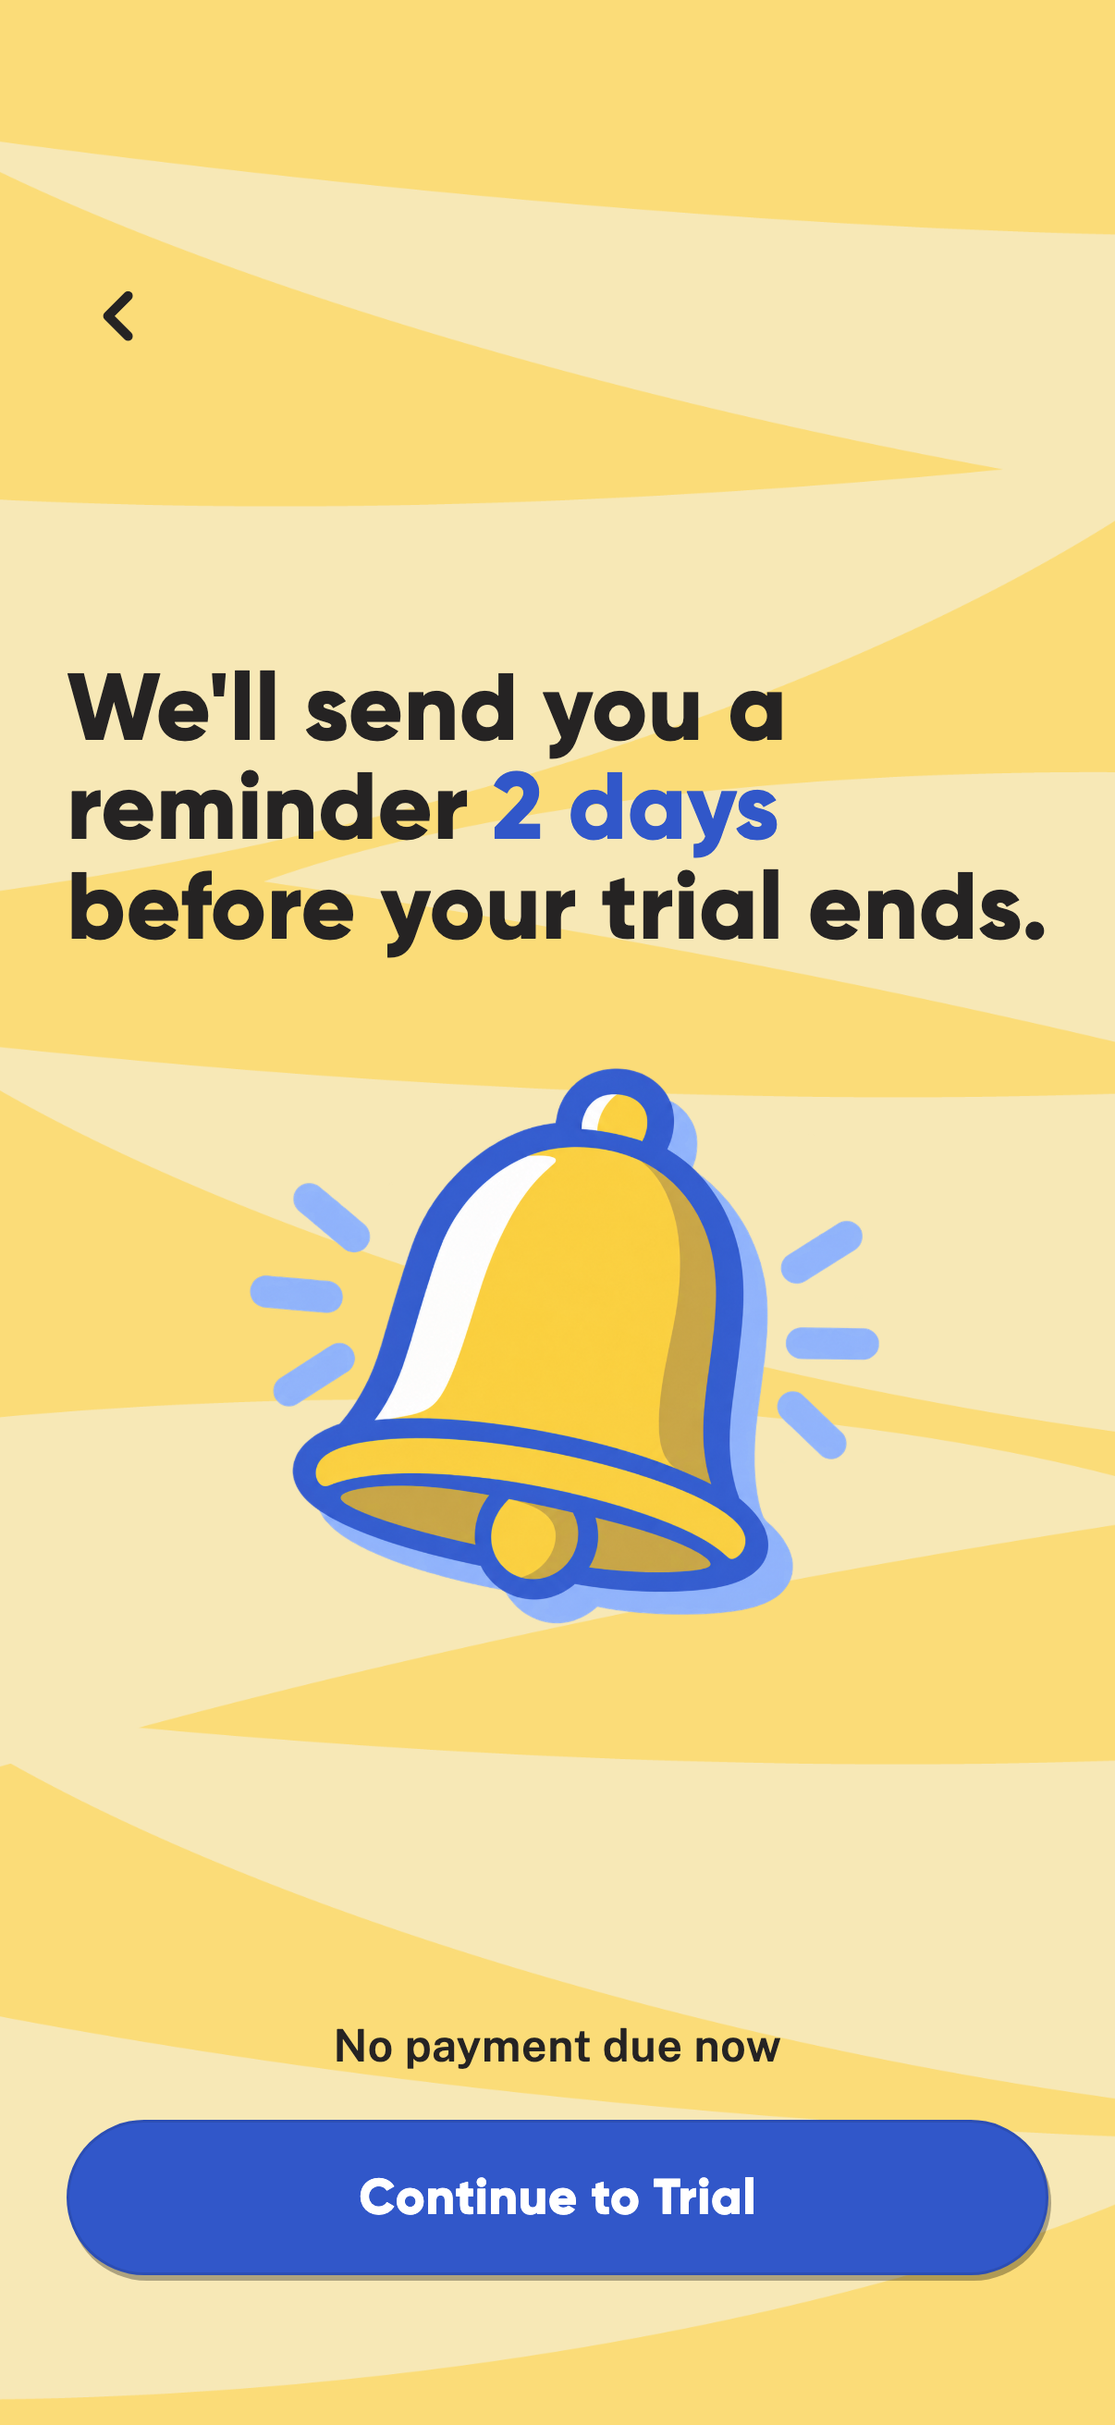
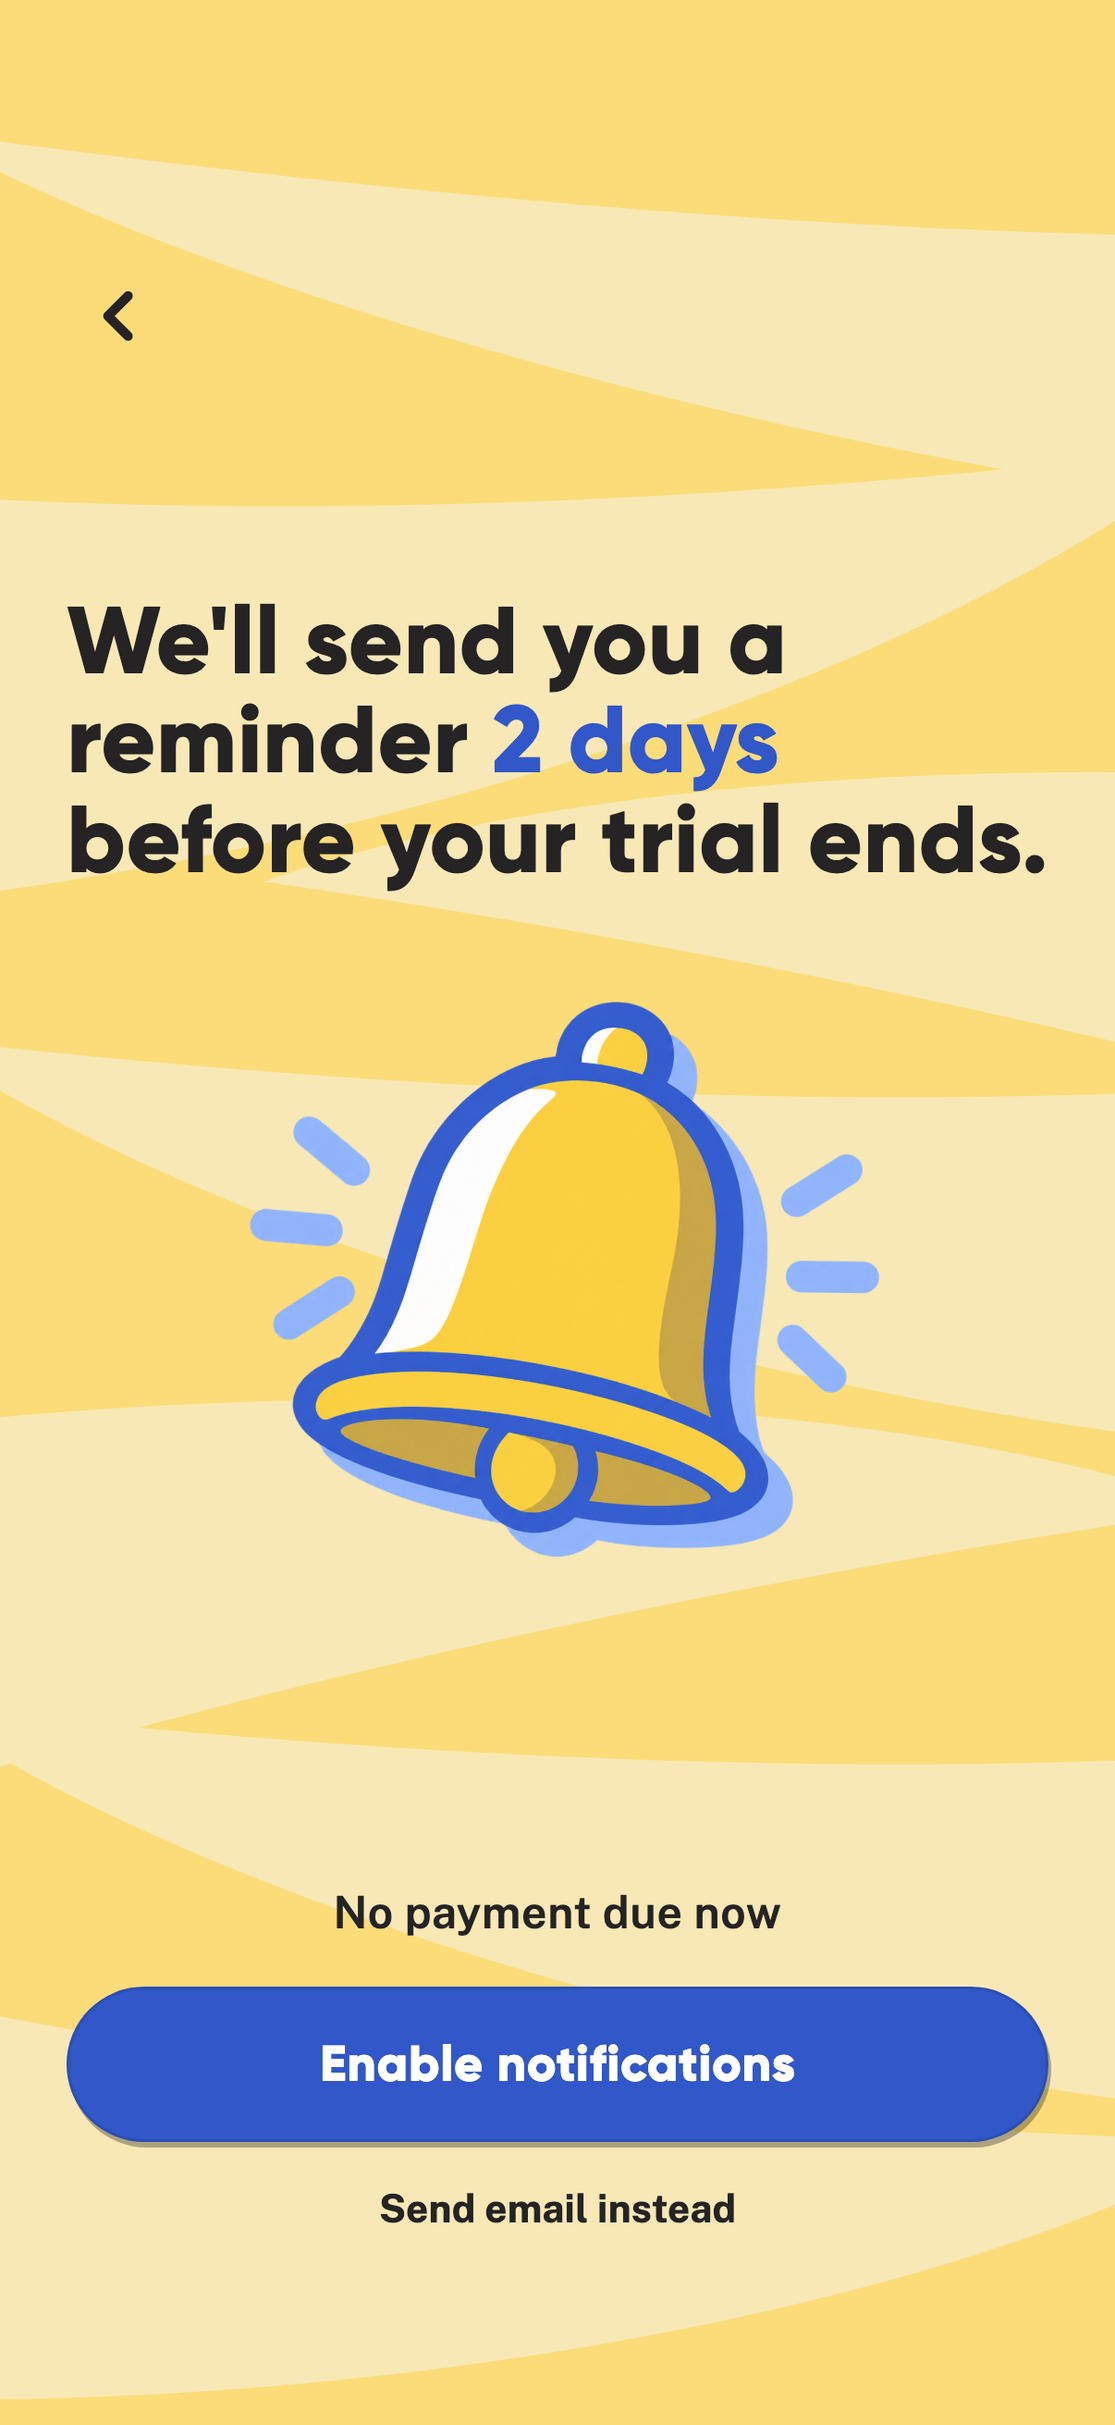
Simplify reminder notification and email choices

Changed region(s): [[0.0614, 0.2471, 0.9511, 0.6796], [0.0614, 0.7723, 0.9511, 0.9577]]

diff --git a/default.html b/default.html
@@ -56,4 +56,4 @@ article.card .content-inner>p{color:#3157c9;font-weight:700}
 to life&#x27;s stress</h3><p class="welcome-subhead">with Non-Contemplative Meditation</p></div><div class="welcome-actions-gap"></div><div class="welcome-actions"><div class="welcome-start">Let's Get Started</div><p class="welcome-signin">Already have an account? <span>Sign In</span></p></div><p class="welcome-terms">By using See you agree to our <u>Terms</u> and <u>Privacy Policy</u></p></div></div></article><article class="card" id="18"><div class="card-label">01 · The practice</div><div class="screen"><div class="screen-content"><div class="content-inner"><h3>The simplest, most effective meditation on Earth</h3><img class="art" src="assets/images/meditating_hands.png" alt="" loading="lazy"><p>10 minutes. Twice a day.</p><p>No mantras, hypnosis, or breathwork. No mood music or sound effects. Nothing to learn, just to see.</p></div></div><div class="cta">Continue</div></div></article><article class="card" id="19"><div class="card-label">02 · Three choices</div><div class="screen screen-demo"><div class="screen-content"><div class="content-inner"><h3>Just three
 choices</h3><p class="subhead">Tap classic, prime, or flash.</p><img class="art" src="assets/images/phone_hand.png" alt="" loading="lazy"></div></div></div></article><article class="card" id="20"><div class="card-label">03 · Session selection</div><div class="screen screen-screenshot"><img src="assets/images/app_phone_med_select_screen.png" alt="Session selection"></div></article><article class="card" id="21"><div class="card-label">04 · Meditation player</div><div class="screen screen-screenshot"><img src="assets/images/app_phone_med_player_screen.png" alt="Meditation player"></div></article><article class="card" id="22"><div class="card-label">05 · Then, just listen</div><div class="screen screen-demo screen-listen"><div class="screen-content"><div class="content-inner"><h3>Then, just listen</h3><img class="art" src="assets/images/phone_player_hand.png" alt="" loading="lazy"><div class="preview-panel"><div class="preview-label">SESSION PREVIEW</div><p>“You are about to hear a small, short sample…”</p><div class="preview-wave" aria-hidden="true"><i style="height:6px"></i><i style="height:12px"></i><i style="height:8px"></i><i style="height:20px"></i><i style="height:28px"></i><i style="height:16px"></i><i style="height:10px"></i><i style="height:24px"></i><i style="height:32px"></i><i style="height:18px"></i><i style="height:8px"></i><i style="height:14px"></i><i style="height:26px"></i><i style="height:20px"></i><i style="height:10px"></i><i style="height:30px"></i><i style="height:18px"></i><i style="height:12px"></i><i style="height:24px"></i><i style="height:8px"></i><i style="height:16px"></i><i style="height:6px"></i></div><div class="preview-control">◖)) &nbsp; Hear preview</div></div></div></div><div class="cta">Continue</div></div></article><article class="card" id="23"><div class="card-label">06 · Teacher</div><div class="screen"><div class="screen-content"><div class="content-inner"><h3>One voice. Decades of experience.</h3><img class="art" src="assets/images/dan_schwarzhoff.png?v=20261001" alt="" loading="lazy"><p>Dan Schwarzhoff guides each session of Non-Contemplative Meditation using the same approach he&#x27;s taught to thousands.</p><p>Dan has spent more than six decades practicing conscious awareness. His work now reaches people around the world, helping them with many different issues and personal goals.</p></div></div><div class="cta">Continue</div></div></article><article class="card" id="24"><div class="card-label">07 · Faith compatibility</div><div class="screen"><div class="screen-content"><div class="content-inner"><h3>And it won’t conflict with your faith</h3><img class="art" src="assets/images/bible_cross_scroll.png" alt="" loading="lazy"><p>No New Age narratives. No Eastern philosophy.</p><p>Works within your faith, and alongside your spiritual practice.</p></div></div><div class="cta">Continue</div></div></article><article class="card" id="25"><div class="card-label">08 · Social proof</div><div class="screen"><div class="screen-content"><div class="content-inner"><h3>Don’t just take
 our word for it</h3><p class="subhead">Take it from people who use <span style="white-space:nowrap;font-size:.95em">Non‑Contemplative Meditation</span></p><blockquote><p>“Now I use my thoughts rather than my thoughts using me.”</p><cite>Bradley, Huntington Woods, Michigan</cite></blockquote><blockquote><p>“It literally saved my life. I absolutely love the app. It never gets monotonous.”</p><cite>Si, England</cite></blockquote><blockquote><p>“I have felt more awake, aware, and conscious than I have ever been. Great app. A game-changer.”</p><cite>Matt, Bremen, Germany</cite></blockquote><blockquote><p>“I could never meditate before. This is working. My partner, boss, colleagues, and friends have noticed a difference too.”</p><cite>Mairi Anna, Edinburgh, Scotland</cite></blockquote><blockquote><p>“The benefits—too numerous and some too private to mention—just keep on coming.”</p><cite>Mark, New South Wales, Australia</cite></blockquote><blockquote><p>“It’s changed everything. What has changed is how I perceive everything.”</p><cite>Scott, Chonburi, Thailand</cite></blockquote><blockquote><p>“The effect was immediate. It was just what I needed to snap out of years of self-pity, regret, and resentment.”</p><cite>Bobby, North Kingstown, Rhode Island</cite></blockquote><blockquote><p>“Amazing. It’s life-changing. Thank you for everything you do.”</p><cite>Sharon, Suffolk, England</cite></blockquote><blockquote><p>“Meditation has changed my life. It works, and it is a godsend. Thank you! I am free and recovered!”</p><cite>Jeanne Marie, Rockland, New York</cite></blockquote><blockquote><p>“I have peace instead of all that worry. I’m liking the different meditations in the app.”</p><cite>Donna, Leicester, England</cite></blockquote><blockquote><p>“My life changed drastically when I really committed to the meditation. No more endless chatter in my head.”</p><cite>Barbara, Antigua, Guatemala</cite></blockquote></div></div><div class="cta">Continue</div></div></article><article class="card" id="24.1"><div class="card-label">09 · Notifications</div><div class="screen screen-screenshot"><img src="assets/images/app_phone_notifications_screen.png" alt="A little
-encouragement Receive a few short messages each week to bring awareness into your day. Turn on notifications Not now"></div></article><article class="card" id="26"><div class="card-label">10 · Save progress</div><div class="screen screen-screenshot"><img src="assets/images/app_phone_signup_screen.png" alt="See is personalized around you. continue with... Apple, Google, or sign up with email." loading="lazy"></div></article><article class="card" id="27"><div class="card-label">11 · Paywall: benefits</div><div class="screen screen-screenshot"><img src="assets/images/app_phone_paywall_general_value.png" alt="Try the See App Free for 7 Days. One-Tap Convenience. Daily Mini Sessions. Build Resilience to Stress. Continue." loading="lazy"></div></article><article class="card" id="27.1"><div class="card-label">12 · Paywall: reminder</div><div class="screen screen-screenshot"><img src="assets/images/app_phone_paywall_reminder.png" alt="We&#x27;ll send you a reminder 2 days before your trial ends. No payment due now. Continue to Trial." loading="lazy"></div></article><article class="card" id="27.2"><div class="card-label">13 · Paywall: plans</div><div class="screen screen-screenshot"><img src="assets/images/app_phone_paywall_plans.png" alt="Start your 7-day free trial. Today: Get full access to See’s guided sessions. Day 5: We’ll send you a reminder before your trial ends. Day 7: Your subscription starts. Yearly (selected) or Monthly. Sample prices. Try for $0.00. Already subscribed? restore." loading="lazy"></div></article></div></main></body></html>
+encouragement Receive a few short messages each week to bring awareness into your day. Turn on notifications Not now"></div></article><article class="card" id="26"><div class="card-label">10 · Save progress</div><div class="screen screen-screenshot"><img src="assets/images/app_phone_signup_screen.png" alt="See is personalized around you. continue with... Apple, Google, or sign up with email." loading="lazy"></div></article><article class="card" id="27"><div class="card-label">11 · Paywall: benefits</div><div class="screen screen-screenshot"><img src="assets/images/app_phone_paywall_general_value.png" alt="Try the See App Free for 7 Days. One-Tap Convenience. Daily Mini Sessions. Build Resilience to Stress. Continue." loading="lazy"></div></article><article class="card" id="27.1"><div class="card-label">12 · Paywall: reminder</div><div class="screen screen-screenshot"><img src="assets/images/app_phone_paywall_reminder.png" alt="We&#x27;ll send you a reminder 2 days before your trial ends. No payment due now. Enable notifications. Send email instead." loading="lazy"></div></article><article class="card" id="27.2"><div class="card-label">13 · Paywall: plans</div><div class="screen screen-screenshot"><img src="assets/images/app_phone_paywall_plans.png" alt="Start your 7-day free trial. Today: Get full access to See’s guided sessions. Day 5: We’ll send you a reminder before your trial ends. Day 7: Your subscription starts. Yearly (selected) or Monthly. Sample prices. Try for $0.00. Already subscribed? restore." loading="lazy"></div></article></div></main></body></html>

diff --git a/index.html b/index.html
@@ -60,4 +60,4 @@ Drink Noise</h3><img class="art" src="assets/images/drink_noise_simple.png" alt=
 choices</h3><p class="subhead">Tap classic, prime, or flash.</p><img class="art" src="assets/images/phone_hand.png" alt="" loading="lazy"></div></div></div></article><article class="card" id="20"><div class="card-label">20 · Session selection</div><div class="screen screen-screenshot"><img src="assets/images/app_phone_med_select_screen.png" alt="Session selection"></div></article><article class="card" id="21"><div class="card-label">21 · Meditation player</div><div class="screen screen-screenshot"><img src="assets/images/app_phone_med_player_screen.png" alt="Meditation player"></div></article><article class="card" id="22"><div class="card-label">22 · Then, just listen</div><div class="screen screen-demo screen-listen"><div class="screen-content"><div class="content-inner"><h3>Then, just listen</h3><img class="art" src="assets/images/phone_player_hand.png" alt="" loading="lazy"><div class="preview-panel"><div class="preview-label">SESSION PREVIEW</div><p>“You are about to hear a small, short sample…”</p><div class="preview-wave" aria-hidden="true"><i style="height:6px"></i><i style="height:12px"></i><i style="height:8px"></i><i style="height:20px"></i><i style="height:28px"></i><i style="height:16px"></i><i style="height:10px"></i><i style="height:24px"></i><i style="height:32px"></i><i style="height:18px"></i><i style="height:8px"></i><i style="height:14px"></i><i style="height:26px"></i><i style="height:20px"></i><i style="height:10px"></i><i style="height:30px"></i><i style="height:18px"></i><i style="height:12px"></i><i style="height:24px"></i><i style="height:8px"></i><i style="height:16px"></i><i style="height:6px"></i></div><div class="preview-control">◖)) &nbsp; Hear preview</div></div></div></div><div class="cta">Continue</div></div></article><article class="card" id="23"><div class="card-label">23 · Teacher</div><div class="screen"><div class="screen-content"><div class="content-inner"><h3>One voice. Decades of experience.</h3><img class="art" src="assets/images/dan_schwarzhoff.png?v=20261001" alt="" loading="lazy"><p>Dan Schwarzhoff guides each session of Non-Contemplative Meditation using the same approach he&#x27;s taught to thousands.</p><p>Alcohol-free for more than 30 years, Dan understands the obsession with drinking from personal experience — but also the solution.</p></div></div><div class="cta">Continue</div></div></article><article class="card" id="24"><div class="card-label">24 · Faith compatibility</div><div class="screen"><div class="screen-content"><div class="content-inner"><h3>And it won’t conflict with your faith</h3><img class="art" src="assets/images/bible_cross_scroll.png" alt="" loading="lazy"><p>No New Age narratives. No Eastern philosophy.</p><p>Works within your faith, and even alongside spiritual recovery fellowships.</p></div></div><div class="cta">Continue</div></div></article><article class="card" id="25"><div class="card-label">25 · Social proof</div><div class="screen"><div class="screen-content"><div class="content-inner"><h3>Don’t just take
 our word for it</h3><p class="subhead">Take it from real people
 who’ve been there.</p><blockquote><p>“I forgot I even wanted to drink. That never happened before.”</p><cite>Kimi, London, Ohio</cite></blockquote><blockquote><p>“It literally saved my life. I absolutely love the app. It never gets monotonous.”</p><cite>Si, England</cite></blockquote><blockquote><p>“This app made quitting easier. I’m more awake, aware, and clear-headed than ever.”</p><cite>Matt, Bremen, Germany</cite></blockquote><blockquote><p>“I could never meditate before. This is working. My partner, boss, colleagues, and friends have noticed a difference too.”</p><cite>Mairi Anna, Edinburgh, Scotland</cite></blockquote><blockquote><p>“The benefits—too numerous and some too private to mention—just keep on coming.”</p><cite>Mark, New South Wales, Australia</cite></blockquote><blockquote><p>“It’s changed everything. What has changed is how I perceive everything.”</p><cite>Scott, Chonburi, Thailand</cite></blockquote><blockquote><p>“The effect was immediate. It was just what I needed to snap out of years of self-pity, regret, and resentment.”</p><cite>Bobby, North Kingstown, Rhode Island</cite></blockquote><blockquote><p>“Amazing. It’s life-changing. Thank you for everything you do.”</p><cite>Sharon, Suffolk, England</cite></blockquote><blockquote><p>“Meditation has changed my life. It works, and it is a godsend. Thank you! I am free and recovered!”</p><cite>Jeanne Marie, Rockland, New York</cite></blockquote><blockquote><p>“Since I stopped drinking, my mood lifted. I’m healthier and happier. This is the real deal.”</p><cite>Lindy, Menominee, Michigan</cite></blockquote><blockquote><p>“Amazing! I am a clinical psychologist. My life changed drastically when I really committed to meditation.”</p><cite>Barbara, Antigua, Guatemala</cite></blockquote></div></div><div class="cta">Continue</div></div></article><article class="card" id="24.1"><div class="card-label">24.1 · Notifications</div><div class="screen screen-screenshot"><img src="assets/images/app_phone_notifications_screen.png" alt="A little
-encouragement Receive a few short messages each week to bring awareness into your day. Turn on notifications Not now"></div></article><article class="card" id="26"><div class="card-label">26 · Save progress</div><div class="screen screen-screenshot"><img src="assets/images/app_phone_signup_screen.png" alt="See is personalized around you. continue with... Apple, Google, or sign up with email." loading="lazy"></div></article><article class="card" id="27"><div class="card-label">27 · Paywall: benefits</div><div class="screen screen-screenshot"><img src="assets/images/app_phone_paywall_alcohol_value.png" alt="Try the See App Free for 7 Days. One-Tap Convenience. Daily Mini Sessions. Break the Drinking Cycle. Continue." loading="lazy"></div></article><article class="card" id="27.1"><div class="card-label">27.1 · Paywall: reminder</div><div class="screen screen-screenshot"><img src="assets/images/app_phone_paywall_reminder.png" alt="We&#x27;ll send you a reminder 2 days before your trial ends. No payment due now. Continue to Trial." loading="lazy"></div></article><article class="card" id="27.2"><div class="card-label">27.2 · Paywall: plans</div><div class="screen screen-screenshot"><img src="assets/images/app_phone_paywall_plans.png" alt="Start your 7-day free trial. Today: Get full access to See’s guided sessions. Day 5: We’ll send you a reminder before your trial ends. Day 7: Your subscription starts. Yearly (selected) or Monthly. Sample prices. Try for $0.00. Already subscribed? restore." loading="lazy"></div></article></div></main></body></html>
+encouragement Receive a few short messages each week to bring awareness into your day. Turn on notifications Not now"></div></article><article class="card" id="26"><div class="card-label">26 · Save progress</div><div class="screen screen-screenshot"><img src="assets/images/app_phone_signup_screen.png" alt="See is personalized around you. continue with... Apple, Google, or sign up with email." loading="lazy"></div></article><article class="card" id="27"><div class="card-label">27 · Paywall: benefits</div><div class="screen screen-screenshot"><img src="assets/images/app_phone_paywall_alcohol_value.png" alt="Try the See App Free for 7 Days. One-Tap Convenience. Daily Mini Sessions. Break the Drinking Cycle. Continue." loading="lazy"></div></article><article class="card" id="27.1"><div class="card-label">27.1 · Paywall: reminder</div><div class="screen screen-screenshot"><img src="assets/images/app_phone_paywall_reminder.png" alt="We&#x27;ll send you a reminder 2 days before your trial ends. No payment due now. Enable notifications. Send email instead." loading="lazy"></div></article><article class="card" id="27.2"><div class="card-label">27.2 · Paywall: plans</div><div class="screen screen-screenshot"><img src="assets/images/app_phone_paywall_plans.png" alt="Start your 7-day free trial. Today: Get full access to See’s guided sessions. Day 5: We’ll send you a reminder before your trial ends. Day 7: Your subscription starts. Yearly (selected) or Monthly. Sample prices. Try for $0.00. Already subscribed? restore." loading="lazy"></div></article></div></main></body></html>
